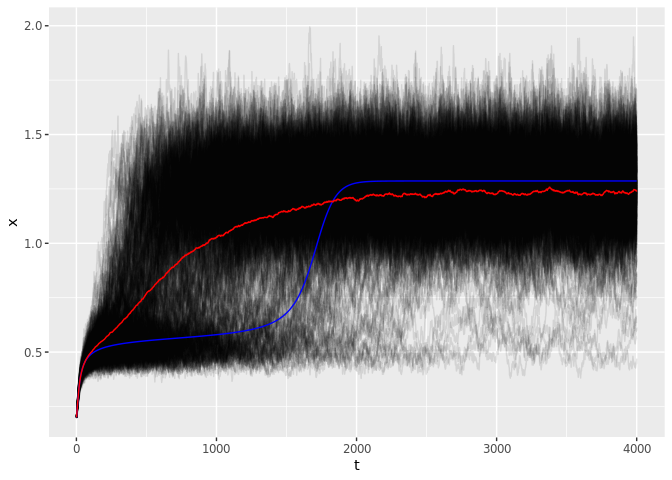
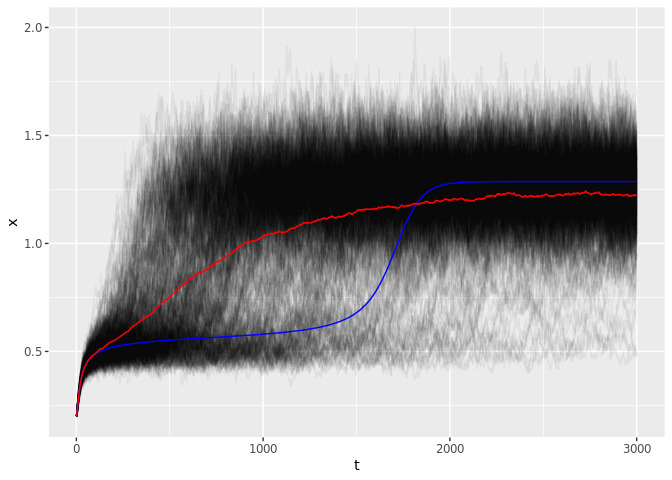
updated ghost sims

diff --git a/notebook/ghost-sims.md b/notebook/ghost-sims.md
@@ -10,7 +10,7 @@ set.seed(12345)
 ```
 
 ``` r
-p <- list(r = .05, K = 2, Q = 5, H = .38, sigma = .02, a=0.023, N = 4e3, x0 = 0.2, N = 1e4)
+p <- list(r = .05, K = 2, Q = 5, H = .38, sigma = .02, a=0.023, N = 3e3, x0 = 0.2)
 growth <- function(x, p) x * p$r * (1 - x / p$K)
 consumption <- function(x, p) p$a * x ^ p$Q / (x^p$Q + p$H^p$Q)
 ```
@@ -70,7 +70,7 @@ det_sim <- function(f, p){
 
 ``` r
 det <- det_sim(may,p) 
-det %>% ggplot(aes(t, x)) + geom_line() + theme_bw()
+det %>% ggplot(aes(t, x)) + geom_line() 
 ```
 
 ![](ghost-sims_files/figure-gfm/unnamed-chunk-6-1.png)<!-- -->
@@ -106,16 +106,18 @@ system.time({
 ```
 
     ##    user  system elapsed 
-    ##   0.825   0.111   6.553
+    ##   0.252   0.022   6.388
 
 ``` r
 det <- det_sim(may,p) %>% mutate(reps=1)
 mean <- df %>% group_by(t) %>% summarise(x = mean(x)) %>% mutate(reps = 1)
 ```
 
+## Stochastic ensemble mean vs deterministic mean
+
 ``` r
 df %>% ggplot(aes(t, x, group=reps)) + 
-  geom_line(alpha=0.1) +
+  geom_line(alpha=0.05) +
   geom_line(data = det, color = "blue") + 
   geom_line(data = mean, color = "red")
 ```
@@ -125,3 +127,37 @@ df %>% ggplot(aes(t, x, group=reps)) +
 ``` r
 df %>% write_csv("../data/reps.csv.xz")
 ```
+
+## Deterministic system with initial conditions in neighborhood below ghost
+
+``` r
+lambda <- function(x0, p){
+                      pars <- p
+                      p$x0 <- x0
+                      det_sim(may, p)
+                    }
+mu <- 0.02
+init <- mu + rnorm(100, 0, .02 * mu)
+df <- future_map_dfr(init, lambda, p = p, .id = "reps")
+
+
+df %>% ggplot(aes(t, x, group=reps)) + 
+  geom_line(alpha=0.1)
+```
+
+![](ghost-sims_files/figure-gfm/unnamed-chunk-12-1.png)<!-- -->
+
+## Deterministic System with initial condition in neighborhood of ghost
+
+``` r
+mu <- 0.55
+init <- mu + rnorm(100, 0, .02 * mu)
+df <- future_map_dfr(init, lambda, p = p, .id = "reps")
+
+
+
+df %>% ggplot(aes(t, x, group=reps)) + 
+  geom_line(alpha=0.1)
+```
+
+![](ghost-sims_files/figure-gfm/unnamed-chunk-13-1.png)<!-- -->
